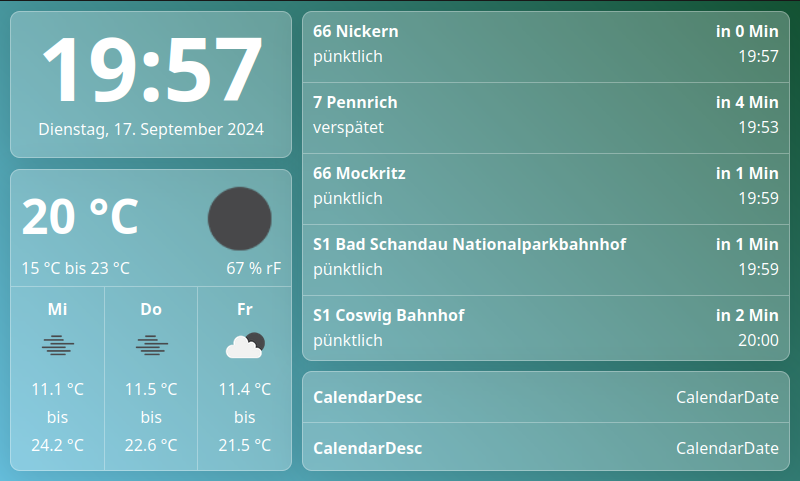
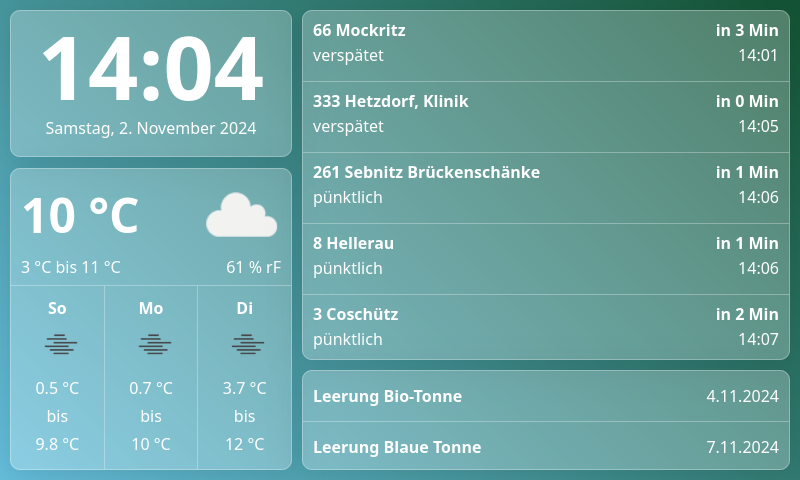
Updated calendar loading and preview image

diff --git a/js/calendarInformation.js b/js/calendarInformation.js
@@ -24,12 +24,11 @@ function parseICS(icsString) {
     }
 
 function loadCalendar(){
-    fetch('js/calendar.ics')
+    fetch('cal/cal.ics')
     .then((res) => res.text())
     .then((text) => {
         calendarEvents = parseICS(text);
         updateCalendarViewport();
-        //logCalendar(calendarEvents);
     })
     .catch((e) => console.error(e));
 }
@@ -39,19 +38,17 @@ function logCalendar(events){
         var eventDate = event['DTSTAMP'];
         var eventDesc = event['DESCRIPTION'];
         eventDate = new Date(eventDate.substring(0,4), eventDate.substring(4,6) -1, eventDate.substring(6,8), 0, 0, 0, 0);
-        console.log(eventDate);
-        console.log(eventDate.getTime());
-        console.log(eventDesc);
     }
     updateCalendarViewport();
 }
 
-//updates the viewport every 10 seconds
+//updates the viewport
+//could be replaced with a while loop
 function updateCalendarViewport(){
     var calendarOptions = { day: 'numeric', year: 'numeric', month: 'numeric', day: 'numeric' };
-	if(calendarEvents != null){
-	    for (let i = 0; i < calendarEvents.length -1; i++){
-	        console.log(calendarEvents[i]);
+	if(calendarEvents != null)
+	{
+	  for (let i = 0; i < calendarEvents.length -1; i++){
 	        var eventDate0 =  calendarEvents[i]['DTSTAMP'].toString();
 	        var eventDate1 =  calendarEvents[i+1]['DTSTAMP'].toString();
 	        var eventDesc0 = calendarEvents[i]['SUMMARY'];
@@ -63,17 +60,19 @@ function updateCalendarViewport(){
 	    	    document.getElementById("0_date").innerText = eventDate0.toLocaleDateString("de-DE", calendarOptions);   
 	    	    document.getElementById("1_desc").innerText = eventDesc1;
 	    	    document.getElementById("1_date").innerText = eventDate1.toLocaleDateString("de-DE", calendarOptions);   
-	            break;
-	         
+	            break;         
 	        }
-	    
-	    }	       
-    }
+	        else{
+	            document.getElementById("0_desc").innerText = 'Keine Termine'
+	            document.getElementById("0_date").innerText = 'Keine Daten'
+	            document.getElementById("1_desc").innerText = 'Keine Termine'
+	            document.getElementById("1_date").innerText = 'Keine Daten'
+	        }
+	    }
+    }   
 }
 
 loadCalendar()
-
-//eventDate.toLocaleDateString("de-DE", calendarOptions);   
 
 function compareDate(date) {
     if(date < new Date()){
